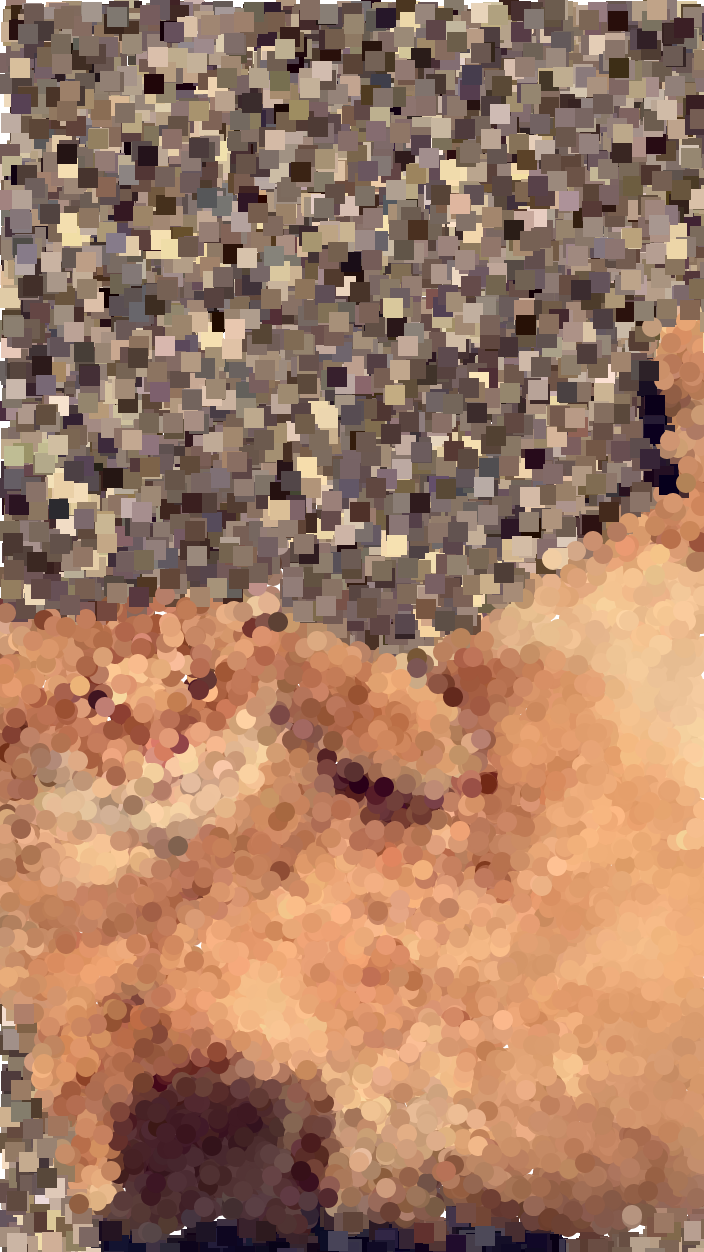
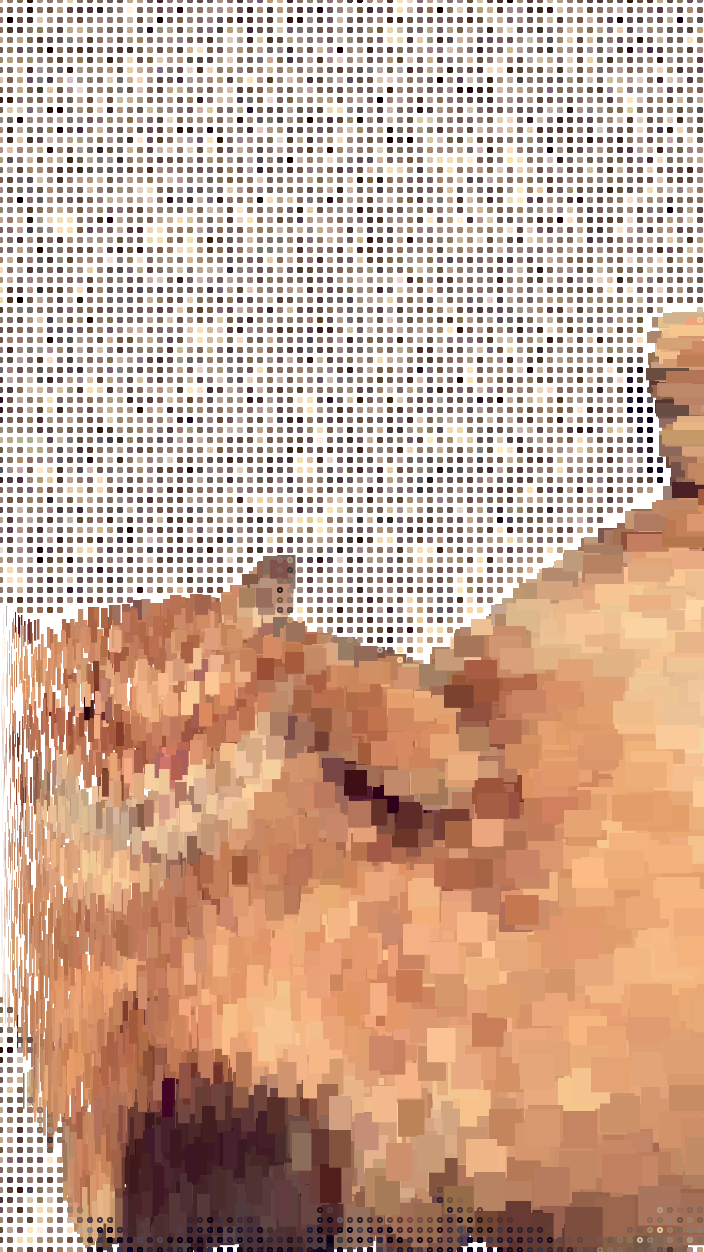
practice

diff --git a/sketch.js b/sketch.js
@@ -1,4 +1,4 @@
-let sourceImg=null;
+ let sourceImg=null;
 let maskImg=null;
 let renderCounter=0;
 

diff --git a/README.md b/README.md
@@ -1,5 +1,4 @@
 ## Creative Coding 2: Custom Pixel
 
-The theme I have decided to dedicate this project to, are my pets, both lost and living. The project encouraged us to create and generate work that has meaning to us, and rather than using photographs of myself, my friends, family or hobbies, I've decided to go in a direction that is sometimes overshadowed by life itself, our pets. Regardless of what we're going through and how busy our lives are, our pets are always there for us, so for this project I have decided to shine light on the animals we chose to bring in our lives, and pay tribute everything they bring us. 
-
-Overall I am happy with my final iterations and believe that I have created work that is to the best of my abilities.
+Experimenting with input 2
+This is an iteration I got to after about four versions of experimenting with code, specifically shapes, size, and pixels. The reason why I didn't upload the previous iterations was because in this project particularly it's hard to determine a significant change without gettig distracted and hencefore unintentionally continuing without documenting the significant changes. Nonetheless I have come to a point in the project where i have reach a point where I am happy with the design and output of this photograph and intend on implementing a similar design and output on my other two photos.
